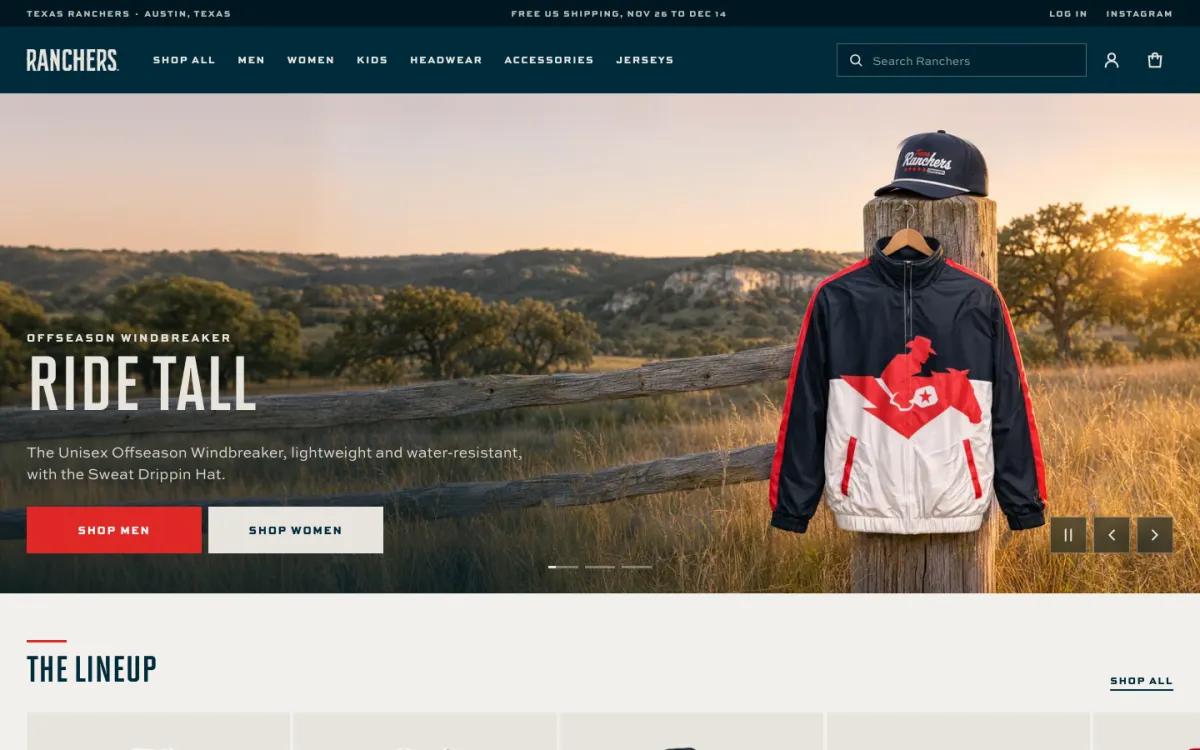
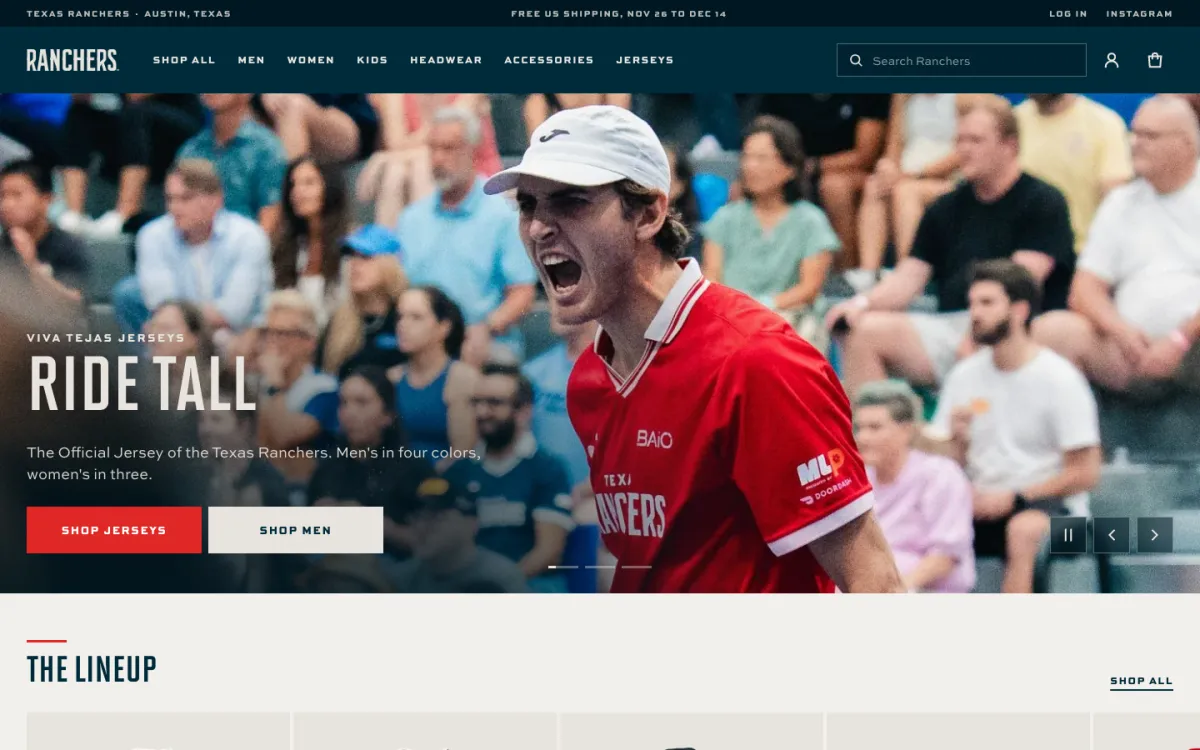
Lookbook: real club photos and render flat-lays instead of generated scenes
- Hero slides: a real match photo, the women's court set and a court-gear flat-lay
- Match-day tiles from real photos; closing banner and landing pages from render flat-lays
- Chooser copy and thumbnail updated for Lookbook and Clubhouse

diff --git a/lookbook/index.html b/lookbook/index.html
@@ -12,8 +12,8 @@
 <link rel="preconnect" href="https://fonts.gstatic.com" crossorigin>
 <link rel="stylesheet" href="https://fonts.googleapis.com/css2?family=Archivo:wdth,wght@62..125,100..900&amp;family=Barlow+Condensed:wght@600;700&amp;display=swap">
 <link rel="stylesheet" href="assets/lb.css">
-<link rel="preload" as="image" type="image/webp" href="assets/scenes/hero-fence-d-2400.webp" media="(min-width: 768px)">
-<link rel="preload" as="image" type="image/webp" href="assets/scenes/hero-fence-sq-780.webp" media="(max-width: 767.98px)">
+<link rel="preload" as="image" type="image/webp" imagesrcset="assets/look/hero-roar-d-1200.webp 1200w, assets/look/hero-roar-d-1488.webp 1488w" imagesizes="100vw" media="(min-width: 768px)">
+<link rel="preload" as="image" type="image/webp" imagesrcset="assets/look/hero-roar-sq-780.webp 780w, assets/look/hero-roar-sq-1067.webp 1067w" imagesizes="100vw" media="(max-width: 767.98px)">
 <style>
 /* ---- hero carousel: full bleed, copy bottom-left over a navy scrim (desktop), image then navy panel (phone) ---- */
 .hero { position: relative; background: var(--navy); color: var(--bone); overflow: hidden; }
@@ -240,16 +240,16 @@
   <div class="hero-vp">
     <div class="hero-track" id="heroTrack" aria-live="off">
       <article class="slide" role="group" aria-roledescription="slide" aria-label="1 of 3">
-        <picture><source media="(max-width: 767.98px)" srcset="assets/scenes/hero-fence-sq-780.webp 780w, assets/scenes/hero-fence-sq-1200.webp 1200w" sizes="100vw"><img src="assets/scenes/hero-fence-d-2400.webp" srcset="assets/scenes/hero-fence-d-1600.webp 1600w, assets/scenes/hero-fence-d-2400.webp 2400w" sizes="100vw" width="2400" height="1000" alt="The Unisex Offseason Windbreaker on a wooden hanger on a weathered ranch fence post in the Texas Hill Country at golden hour, with the navy Sweat Drippin Hat resting on top of the post" fetchpriority="high" decoding="async"></picture>
-        <div class="slide-copy"><p class="lbl eyebrow">Offseason Windbreaker</p><h1 class="hd">Ride Tall</h1><p class="sub">The Unisex Offseason Windbreaker, lightweight and water-resistant, with the Sweat Drippin Hat.</p><div class="btns"><a class="btn btn-red lbl" href="https://shop.ranchers.com/collections/men" target="_blank" rel="noopener">Shop men</a><a class="btn btn-bone lbl" href="https://shop.ranchers.com/collections/women" target="_blank" rel="noopener">Shop women</a></div></div>
+        <picture><source media="(max-width: 767.98px)" srcset="assets/look/hero-roar-sq-780.webp 780w, assets/look/hero-roar-sq-1067.webp 1067w" sizes="100vw"><img src="assets/look/hero-roar-d-1488.webp" srcset="assets/look/hero-roar-d-1200.webp 1200w, assets/look/hero-roar-d-1488.webp 1488w" sizes="100vw" width="2400" height="1000" alt="A Texas Ranchers player roaring in the red match version of the Official Viva Tejas Jersey, TEXAS RANCHERS across the chest, in front of a full stand" fetchpriority="high" decoding="async"></picture>
+        <div class="slide-copy"><p class="lbl eyebrow">Viva Tejas Jerseys</p><h1 class="hd">Ride Tall</h1><p class="sub">The Official Jersey of the Texas Ranchers. Men&#x27;s in four colors, women&#x27;s in three.</p><div class="btns"><a class="btn btn-red lbl" href="https://shop.ranchers.com/collections/jerseys" target="_blank" rel="noopener">Shop jerseys</a><a class="btn btn-bone lbl" href="https://shop.ranchers.com/collections/men" target="_blank" rel="noopener">Shop men</a></div></div>
       </article>
       <article class="slide" role="group" aria-roledescription="slide" aria-label="2 of 3">
-        <picture><source media="(max-width: 767.98px)" srcset="assets/scenes/hero-jerseys-sq-780.webp 780w, assets/scenes/hero-jerseys-sq-1200.webp 1200w" sizes="100vw"><img src="assets/scenes/hero-jerseys-d-2400.webp" srcset="assets/scenes/hero-jerseys-d-1600.webp 1600w, assets/scenes/hero-jerseys-d-2400.webp 2400w" sizes="100vw" width="2400" height="1000" alt="Four Men&#x27;s Official Viva Tejas Jerseys in white, navy, red and gold on wooden hangers against a limestone locker-room wall" loading="lazy" decoding="async"></picture>
-        <div class="slide-copy"><p class="lbl eyebrow">Viva Tejas Jerseys</p><h2 class="hd">Defend the Brand</h2><p class="sub">The Official Jersey of the Texas Ranchers. Men&#x27;s in four colors, women&#x27;s in three.</p><div class="btns"><a class="btn btn-red lbl" href="https://shop.ranchers.com/collections/jerseys" target="_blank" rel="noopener">Shop jerseys</a><a class="btn btn-bone lbl" href="https://shop.ranchers.com/collections/activewear" target="_blank" rel="noopener">Shop activewear</a></div></div>
+        <picture><source media="(max-width: 767.98px)" srcset="assets/look/hero-women-sq-780.webp 780w, assets/look/hero-women-sq-1200.webp 1200w" sizes="100vw"><img src="assets/look/hero-women-d-2400.webp" srcset="assets/look/hero-women-d-1600.webp 1600w, assets/look/hero-women-d-2400.webp 2400w" sizes="100vw" width="2400" height="1000" alt="Flat-lay of the white Women&#x27;s Official Viva Tejas Jersey, the navy Women&#x27;s Tennis Dress, the red Women&#x27;s Ponytail Hat and the gold Pickleball Necklace x Kendra Scott on Barton Blue" loading="lazy" decoding="async"></picture>
+        <div class="slide-copy"><p class="lbl eyebrow">Women&#x27;s</p><h2 class="hd">Own the Court</h2><p class="sub">The white Women&#x27;s Official Viva Tejas Jersey, the Women&#x27;s Tennis Dress, the red Women&#x27;s Ponytail Hat and the Pickleball Necklace x Kendra Scott.</p><div class="btns"><a class="btn btn-red lbl" href="https://shop.ranchers.com/collections/women" target="_blank" rel="noopener">Shop women</a><a class="btn btn-bone lbl" href="https://shop.ranchers.com/collections/headwear" target="_blank" rel="noopener">Shop headwear</a></div></div>
       </article>
       <article class="slide" role="group" aria-roledescription="slide" aria-label="3 of 3">
-        <picture><source media="(max-width: 767.98px)" srcset="assets/scenes/hero-court-sq-780.webp 780w, assets/scenes/hero-court-sq-1200.webp 1200w" sizes="100vw"><img src="assets/scenes/hero-court-d-2400.webp" srcset="assets/scenes/hero-court-d-1600.webp 1600w, assets/scenes/hero-court-d-2400.webp 2400w" sizes="100vw" width="2400" height="1000" alt="The beige Ranchers Sweat Drippin Hat, the Signature Paddle and the white Ice Shaker Water Bottle on a blue court at the baseline at golden hour" loading="lazy" decoding="async"></picture>
-        <div class="slide-copy"><p class="lbl eyebrow">Headwear and gear</p><h2 class="hd">Saddle Up and<br>Paddle Up</h2><p class="sub">The Sweat Drippin Hat in beige, the Signature Paddle and the Ice Shaker Water Bottle.</p><div class="btns"><a class="btn btn-red lbl" href="https://shop.ranchers.com/collections/headwear" target="_blank" rel="noopener">Shop headwear</a><a class="btn btn-bone lbl" href="https://shop.ranchers.com/collections/accessories-1" target="_blank" rel="noopener">Shop accessories</a></div></div>
+        <picture><source media="(max-width: 767.98px)" srcset="assets/look/hero-gear-sq-780.webp 780w, assets/look/hero-gear-sq-1200.webp 1200w" sizes="100vw"><img src="assets/look/hero-gear-d-2400.webp" srcset="assets/look/hero-gear-d-1600.webp 1600w, assets/look/hero-gear-d-2400.webp 2400w" sizes="100vw" width="2400" height="1000" alt="Flat-lay of the Signature Paddle, the Paddle Drip Edge Guard, a 3-pack of Ranchers Custom Grips, the white Ice Shaker Water Bottle and the red Ranchers Fanny Pack on navy" loading="lazy" decoding="async"></picture>
+        <div class="slide-copy"><p class="lbl eyebrow">Court gear</p><h2 class="hd">Saddle Up and<br>Paddle Up</h2><p class="sub">The Signature Paddle, the Paddle Drip Edge Guard, Ranchers Custom Grips, the Ice Shaker Water Bottle and the Ranchers Fanny Pack.</p><div class="btns"><a class="btn btn-red lbl" href="https://shop.ranchers.com/collections/accessories-1" target="_blank" rel="noopener">Shop accessories</a><a class="btn btn-bone lbl" href="https://shop.ranchers.com/collections/all-products" target="_blank" rel="noopener">Shop all</a></div></div>
       </article>
     </div>
   </div>
@@ -324,13 +324,13 @@
 </section>
 
 <section class="duo" aria-label="Featured collections">
-  <article class="dtile" style="--pos-m:50% 50%">
-    <img src="assets/scenes/tile-bench-1440.webp" srcset="assets/scenes/tile-bench-720.webp 720w, assets/scenes/tile-bench-1440.webp 1440w" sizes="(max-width: 767.98px) 100vw, 50vw" width="1440" height="1440" alt="The red Elite Tee folded on a white-oak locker-room bench beside the Ranchers Red Visor, navy lockers behind" loading="lazy" decoding="async">
-    <div class="dcopy"><p class="lbl">Activewear</p><h2 class="hd">Lead the pack –<br>Own the court</h2><p class="links"><a class="lbl" href="https://shop.ranchers.com/collections/activewear" target="_blank" rel="noopener">Shop activewear</a><a class="lbl" href="https://shop.ranchers.com/collections/headwear" target="_blank" rel="noopener">Shop headwear</a></p><p class="dtag">In the shot: Elite Tee in Red · Ranchers Red Visor</p></div>
+  <article class="dtile" style="--pos-m:40% 50%">
+    <img src="assets/look/tile-court-t-1280.webp" srcset="assets/look/tile-court-t-720.webp 720w, assets/look/tile-court-t-1280.webp 1280w" sizes="(max-width: 767.98px) 100vw, 50vw" width="1440" height="1440" alt="Two Texas Ranchers players in the navy women&#x27;s match kit celebrating a point on court" loading="lazy" decoding="async">
+    <div class="dcopy"><p class="lbl">On court</p><h2 class="hd">Lead the Pack</h2><p class="links"><a class="lbl" href="https://shop.ranchers.com/collections/women" target="_blank" rel="noopener">Shop women</a><a class="lbl" href="https://shop.ranchers.com/collections/jerseys" target="_blank" rel="noopener">Shop jerseys</a></p><p class="dtag">In the shot: the navy women&#x27;s match kit, TEXAS RANCHERS across the front</p></div>
   </article>
-  <article class="dtile" style="--pos-m:74% 50%">
-    <img src="assets/scenes/tile-offseason-1440.webp" srcset="assets/scenes/tile-offseason-720.webp 720w, assets/scenes/tile-offseason-1440.webp 1440w" sizes="(max-width: 767.98px) 100vw, 50vw" width="1440" height="1440" alt="The Unisex Offseason Crewneck on a wooden hanger against a Hill Country limestone wall at golden hour, with the Offseason Trucker Hat on the ledge beside it" loading="lazy" decoding="async">
-    <div class="dcopy"><p class="lbl">The Offseason collab</p><h2 class="hd">Wear the Brand</h2><p class="links"><a class="lbl" href="https://shop.ranchers.com/collections/men" target="_blank" rel="noopener">Shop men</a><a class="lbl" href="https://shop.ranchers.com/collections/women" target="_blank" rel="noopener">Shop women</a></p><p class="dtag">In the shot: Unisex Offseason Crewneck · Offseason Trucker Hat</p></div>
+  <article class="dtile" style="--pos-m:50% 50%">
+    <img src="assets/look/tile-saturday-t-1440.webp" srcset="assets/look/tile-saturday-t-720.webp 720w, assets/look/tile-saturday-t-1440.webp 1440w" sizes="(max-width: 767.98px) 100vw, 50vw" width="1440" height="1440" alt="A Texas Ranchers player in the red match jersey and a white cap waving to the crowd at Saturday Night Pickleball" loading="lazy" decoding="async">
+    <div class="dcopy"><p class="lbl">Saturday Night Pickleball</p><h2 class="hd">Defend the Brand</h2><p class="links"><a class="lbl" href="https://shop.ranchers.com/collections/men" target="_blank" rel="noopener">Shop men</a><a class="lbl" href="https://shop.ranchers.com/collections/jerseys" target="_blank" rel="noopener">Shop jerseys</a></p><p class="dtag">In the shot: the red Official Viva Tejas Jersey, match version with sponsor patches</p></div>
   </article>
 </section>
 
@@ -380,9 +380,9 @@
 
 <section class="banner" aria-labelledby="banner-h">
   <picture>
-    <source media="(max-width: 767.98px)" srcset="assets/scenes/banner-p-780.webp 780w, assets/scenes/banner-p-1152.webp 1152w" sizes="100vw">
-    <img src="assets/scenes/banner-d-2400.webp" srcset="assets/scenes/banner-d-1600.webp 1600w, assets/scenes/banner-d-2400.webp 2400w" sizes="100vw" width="2400" height="1067" loading="lazy" decoding="async"
-      alt="The red Texas Ranchers x Ice Shaker Half Gallon Jug standing by the fence post of an outdoor court at sunset, with the white Texas Sweat Towel hanging on the chain-link fence">
+    <source media="(max-width: 767.98px)" srcset="assets/look/banner-jugs-p-780.webp 780w, assets/look/banner-jugs-p-1152.webp 1152w" sizes="100vw">
+    <img src="assets/look/banner-jugs-d-2400.webp" srcset="assets/look/banner-jugs-d-1600.webp 1600w, assets/look/banner-jugs-d-2400.webp 2400w" sizes="100vw" width="2400" height="1067" loading="lazy" decoding="async"
+      alt="The Texas Ranchers x Ice Shaker Half Gallon Jug in red, white and navy, standing side by side on navy">
   </picture>
   <div class="bcopy">
     <h2 class="hd" id="banner-h">From Sunrise <br>to Sundown</h2>
@@ -390,7 +390,7 @@
       <a class="btn btn-red lbl" href="https://shop.ranchers.com/collections/all-products" target="_blank" rel="noopener">Shop all</a>
       <a class="btn btn-bone lbl" href="https://shop.ranchers.com/collections/accessories-1" target="_blank" rel="noopener">Shop accessories</a>
     </div>
-    <p class="btag">In the shot: Texas Ranchers x Ice Shaker Half Gallon Jug · Texas Sweat Towel</p>
+    <p class="btag">In the shot: Texas Ranchers x Ice Shaker Half Gallon Jug in red, white and navy</p>
   </div>
 </section>
 </main>
@@ -399,7 +399,7 @@
   <div class="ftr-band" aria-hidden="true"></div>
   <div class="ftr-in">
     <div>
-      <div class="ftr-mark"><img src="assets/brand/icon-bone.webp" alt="Texas Ranchers rider mark" width="222" height="144" loading="lazy"><span class="callout"><span>Ride Tall</span></span></div>
+      <div class="ftr-mark"><img src="assets/brand/icon-bone.webp" alt="Texas Ranchers rider mark" width="222" height="144" loading="lazy"></div>
       <h2 class="hd">Join the Herd</h2>
       <p>Be first to hear about new releases from the Texas Ranchers.</p>
       <form class="news" id="news" novalidate>
@@ -438,7 +438,7 @@
       <a href="https://shop.ranchers.com/policies/privacy-policy" target="_blank" rel="noopener">Privacy policy</a>
       <a href="https://shop.ranchers.com/policies/terms-of-service" target="_blank" rel="noopener">Terms of service</a>
     </nav>
-    <span class="sign">#RideTall</span>
+    <span class="callout sign-callout" aria-label="#RideTall"><span>#RideTall</span></span>
   </div>
 </footer>
 

diff --git a/index.html b/index.html
@@ -141,11 +141,11 @@ h2 { margin: 0; font: 700 40px/.92 var(--display); text-transform: uppercase; le
         </div>
       </a>
       <a class="card" href="lookbook/index.html">
-        <div class="shot"><img src="thumbs/lookbook.webp" alt="Lookbook concept: new scene renders of the merch on location, under a full-width hero with shop buttons" width="1200" height="750"></div>
+        <div class="shot"><img src="thumbs/lookbook.webp" alt="Lookbook concept: a Rancher in the red jersey roaring in front of a full stand, under a RIDE TALL headline" width="1200" height="750"></div>
         <div class="body">
           <div class="meta"><span class="label">Option 04 &middot; Lookbook</span><span class="status label">New</span></div>
           <h2>Lookbook</h2>
-          <p>New scene renders of the merch on location: the windbreaker on a Hill Country fence post, the jerseys on a limestone wall, the jug courtside at sunset. Then the lineup, shop by category and shop by color.</p>
+          <p>Real club photography and flat-lays of the renders: a rotating hero of the red jersey, the women's court set and court gear, then the lineup, match-day tiles, shop by category and shop by color.</p>
           <span class="open label">Open concept <svg width="22" height="12" viewBox="0 0 26 14" fill="none" stroke="currentColor" stroke-width="1.6" aria-hidden="true"><path d="M1 7h24M19 1l6 6-6 6"/></svg></span>
         </div>
       </a>
@@ -163,7 +163,7 @@ h2 { margin: 0; font: 700 40px/.92 var(--display); text-transform: uppercase; le
         <div class="body">
           <div class="meta"><span class="label">Option 06 &middot; Product pages</span><span class="status label">New</span></div>
           <h2>Clubhouse</h2>
-          <p>Club photography and court scenes between rows of render cards, and a product page for every item: five angles and a 360 for each color, with real sizes and prices.</p>
+          <p>A rotating hero of club photography and render flat-lays between rows of render cards, and a product page for every item: five angles and a 360 for each color, with real sizes and prices.</p>
           <p class="ext" hidden>Opens on the public test site: it has too many files for this page.</p>
           <span class="open label">Open concept <svg width="22" height="12" viewBox="0 0 26 14" fill="none" stroke="currentColor" stroke-width="1.6" aria-hidden="true"><path d="M1 7h24M19 1l6 6-6 6"/></svg></span>
         </div>

diff --git a/lookbook/lp/official-jersey/index.html b/lookbook/lp/official-jersey/index.html
@@ -158,7 +158,7 @@
 <main id="main">
 <section class="lp-top">
   <figure class="lp-media">
-    <div class="lp-scene v-pro" style="--ratio:3 / 2"><picture><source media="(min-width: 900px)" srcset="../../assets/scenes/hero-jerseys-sq-1200.webp"><img src="../../assets/scenes/jerseys-wide-780.webp" srcset="../../assets/scenes/jerseys-wide-780.webp 780w, ../../assets/scenes/jerseys-wide-1560.webp 1560w" sizes="100vw" width="780" height="520" alt="Four Men&#x27;s Official Viva Tejas Jerseys in white, navy, red and gold on wooden hangers against a limestone locker-room wall" fetchpriority="high" decoding="async"></picture></div>
+    <div class="lp-scene v-pro" style="--ratio:3 / 2"><picture><source media="(min-width: 900px)" srcset="../../assets/look/lp-jerseys-sq-1200.webp"><img src="../../assets/look/lp-jerseys-32-780.webp" srcset="../../assets/look/lp-jerseys-32-780.webp 780w, ../../assets/look/lp-jerseys-32-1560.webp 1560w" sizes="100vw" width="780" height="520" alt="Flat-lay of the Men&#x27;s Official Viva Tejas Jersey in white, navy, red and gold above the Women&#x27;s Official Viva Tejas Jersey in red, white and navy, on bone" fetchpriority="high" decoding="async"></picture></div>
     <div class="lp-stage v-ret"><img data-prod-img data-lg src="../../assets/p/store-mens-jersey-navy-front-lg.webp" width="900" height="1100" alt="Men&#x27;s Official Viva Tejas Jersey, Navy" decoding="async"></div>
   </figure>
   <div class="lp-panel">

diff --git a/lookbook/lp/stay-cold/index.html b/lookbook/lp/stay-cold/index.html
@@ -158,7 +158,7 @@
 <main id="main">
 <section class="lp-top">
   <figure class="lp-media">
-    <div class="lp-scene v-pro" style="--ratio:4 / 3"><picture><source media="(min-width: 900px)" srcset="../../assets/scenes/jug-sq-1200.webp"><img src="../../assets/scenes/jug-43-780.webp" srcset="../../assets/scenes/jug-43-780.webp 780w, ../../assets/scenes/jug-43-1200.webp 1200w" sizes="100vw" width="780" height="585" alt="The red Texas Ranchers x Ice Shaker Half Gallon Jug by the fence post of an outdoor court at sunset" fetchpriority="high" decoding="async"></picture></div>
+    <div class="lp-scene v-pro" style="--ratio:4 / 3"><picture><source media="(min-width: 900px)" srcset="../../assets/look/lp-jugs-sq-1200.webp"><img src="../../assets/look/lp-jugs-43-780.webp" srcset="../../assets/look/lp-jugs-43-780.webp 780w, ../../assets/look/lp-jugs-43-1200.webp 1200w" sizes="100vw" width="780" height="585" alt="The Texas Ranchers x Ice Shaker Half Gallon Jug in red, white and navy, standing side by side on navy" fetchpriority="high" decoding="async"></picture></div>
     <div class="lp-stage v-ret"><img data-prod-img data-lg src="../../assets/p/jug-red-front-lg.webp" width="900" height="1100" alt="Texas Ranchers x Ice Shaker Half Gallon Jug, Red" decoding="async"></div>
   </figure>
   <div class="lp-panel">

diff --git a/lookbook/lp/gift/index.html b/lookbook/lp/gift/index.html
@@ -158,7 +158,7 @@
 <main id="main">
 <section class="lp-top lp-top-gifts">
   <figure class="lp-media v-pro">
-    <div class="lp-scene " style="--ratio:4 / 3"><picture><source media="(min-width: 900px)" srcset="../../assets/scenes/hero-fence-sq-1200.webp"><img src="../../assets/scenes/fence-43-780.webp" srcset="../../assets/scenes/fence-43-780.webp 780w, ../../assets/scenes/fence-43-1200.webp 1200w" sizes="100vw" width="780" height="585" alt="The Unisex Offseason Windbreaker on a fence post in the Hill Country at golden hour, with the navy Sweat Drippin Hat on top of the post" fetchpriority="high" decoding="async"></picture></div>
+    <div class="lp-scene " style="--ratio:4 / 3"><picture><source media="(min-width: 900px)" srcset="../../assets/look/lp-hats-sq-1200.webp"><img src="../../assets/look/lp-hats-43-780.webp" srcset="../../assets/look/lp-hats-43-780.webp 780w, ../../assets/look/lp-hats-43-1200.webp 1200w" sizes="100vw" width="780" height="585" alt="Flat-lay of five Ranchers hats on bone: the Sweat Drippin Hat in navy and white, the ATX Hat, the pink Women&#x27;s Ponytail Hat and the Trucker Hat" fetchpriority="high" decoding="async"></picture></div>
   </figure>
   <div class="lp-panel">
       <div class="lp-head"><p class="chip lbl h-a v-pro">For your pickleball people</p>

diff --git a/lookbook/assets/lb.css b/lookbook/assets/lb.css
@@ -193,6 +193,7 @@ button { font: inherit; color: inherit; background: none; border: 0; padding: 0;
 .legal a { text-decoration: none; }
 .legal a:hover { color: var(--bone); text-decoration: underline; text-underline-offset: 3px; }
 .legal .sign { font-family: var(--f-head); font-weight: 700; font-size: 20px; color: var(--bone); letter-spacing: .02em; }
+.legal .sign-callout { font-size: 24px; text-transform: none; letter-spacing: .01em; }
 @media (max-width: 899.98px) {
   .ftr-in { grid-template-columns: 1fr; gap: 40px; padding-top: 56px; }
   .cols { grid-template-columns: 1fr; gap: 0; }
